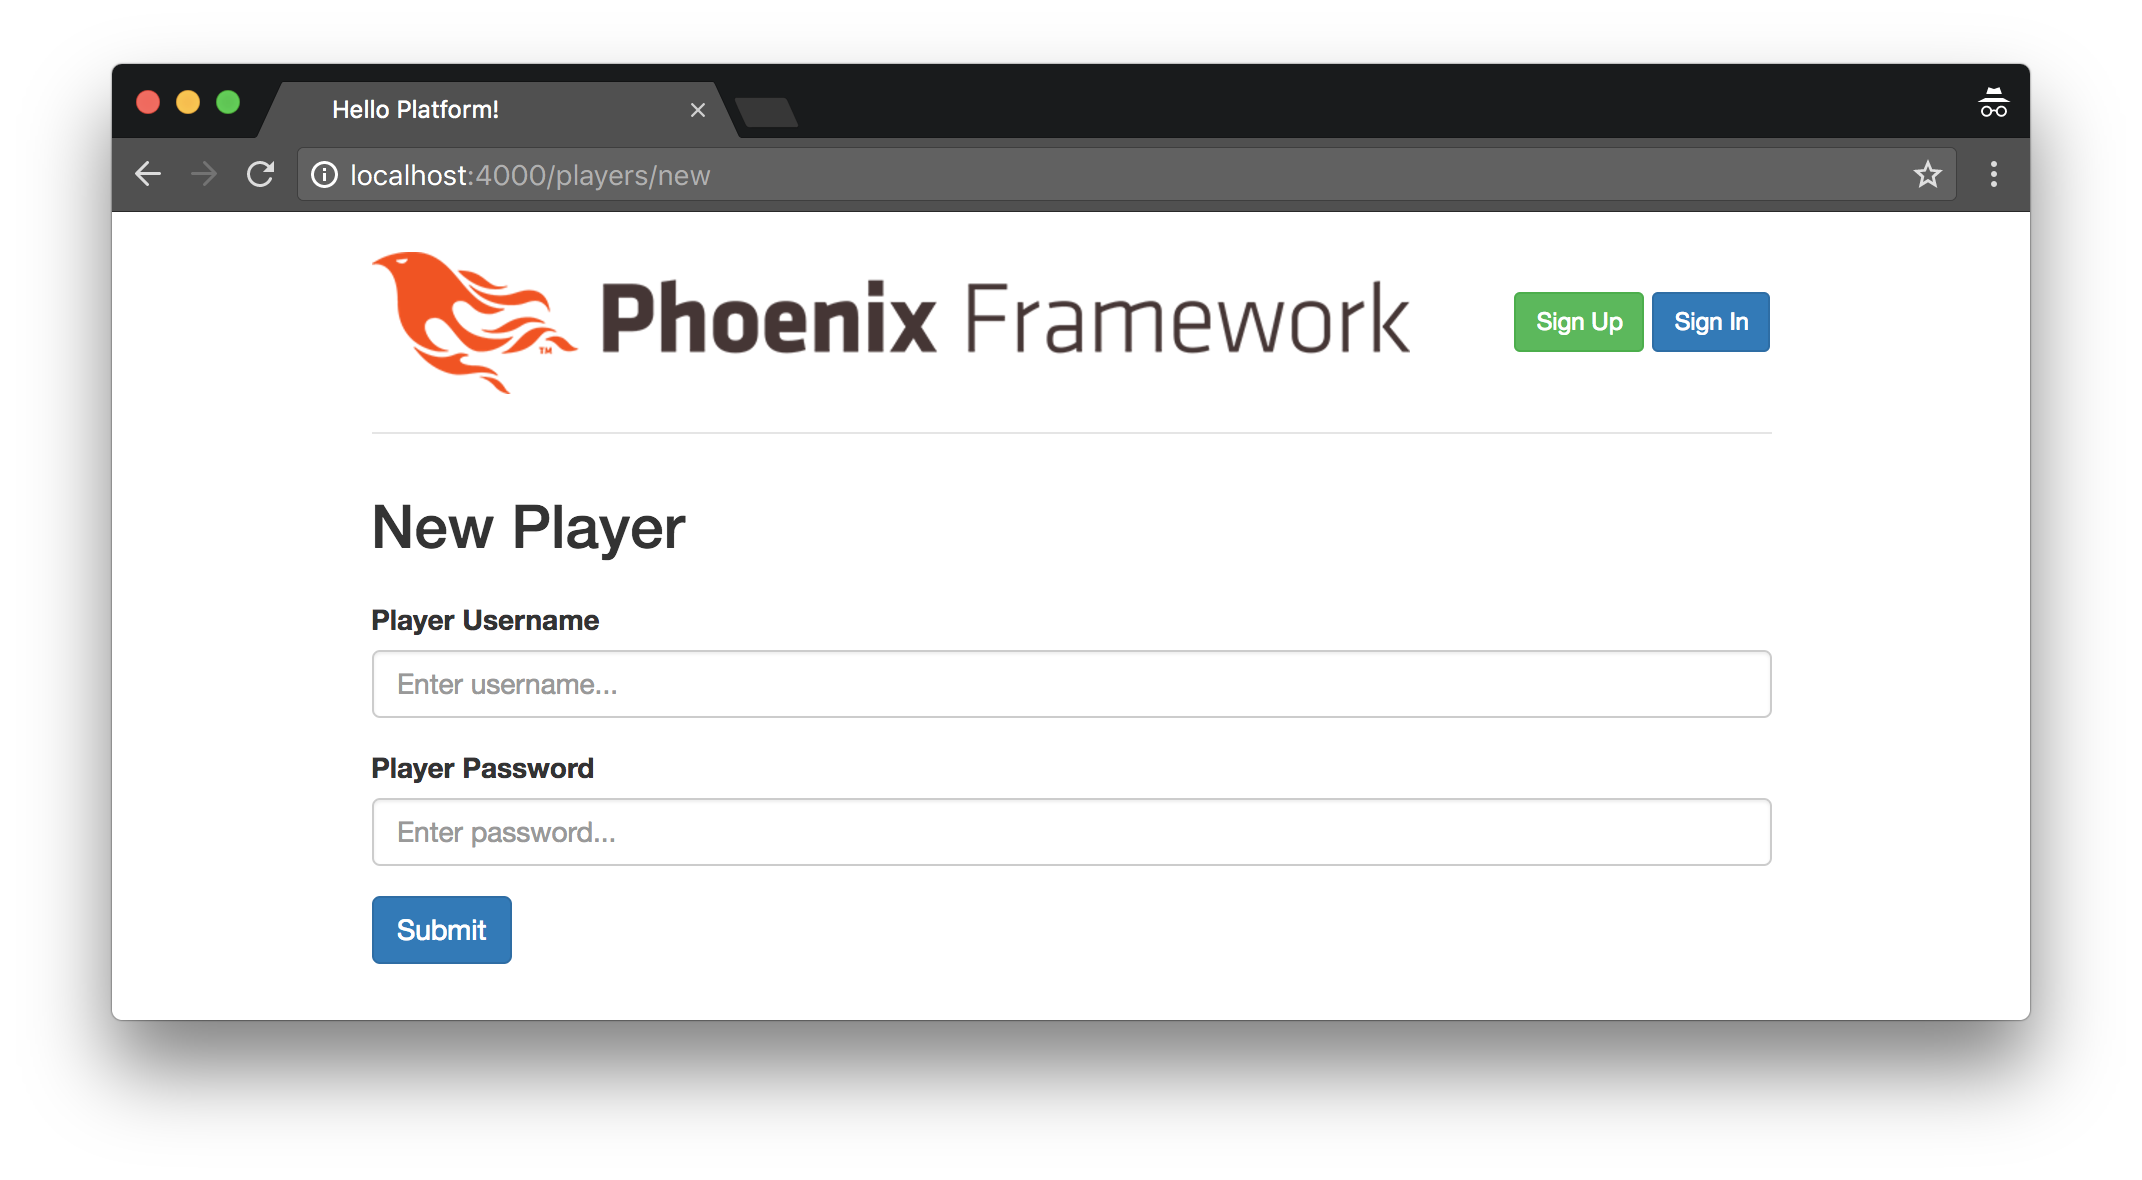
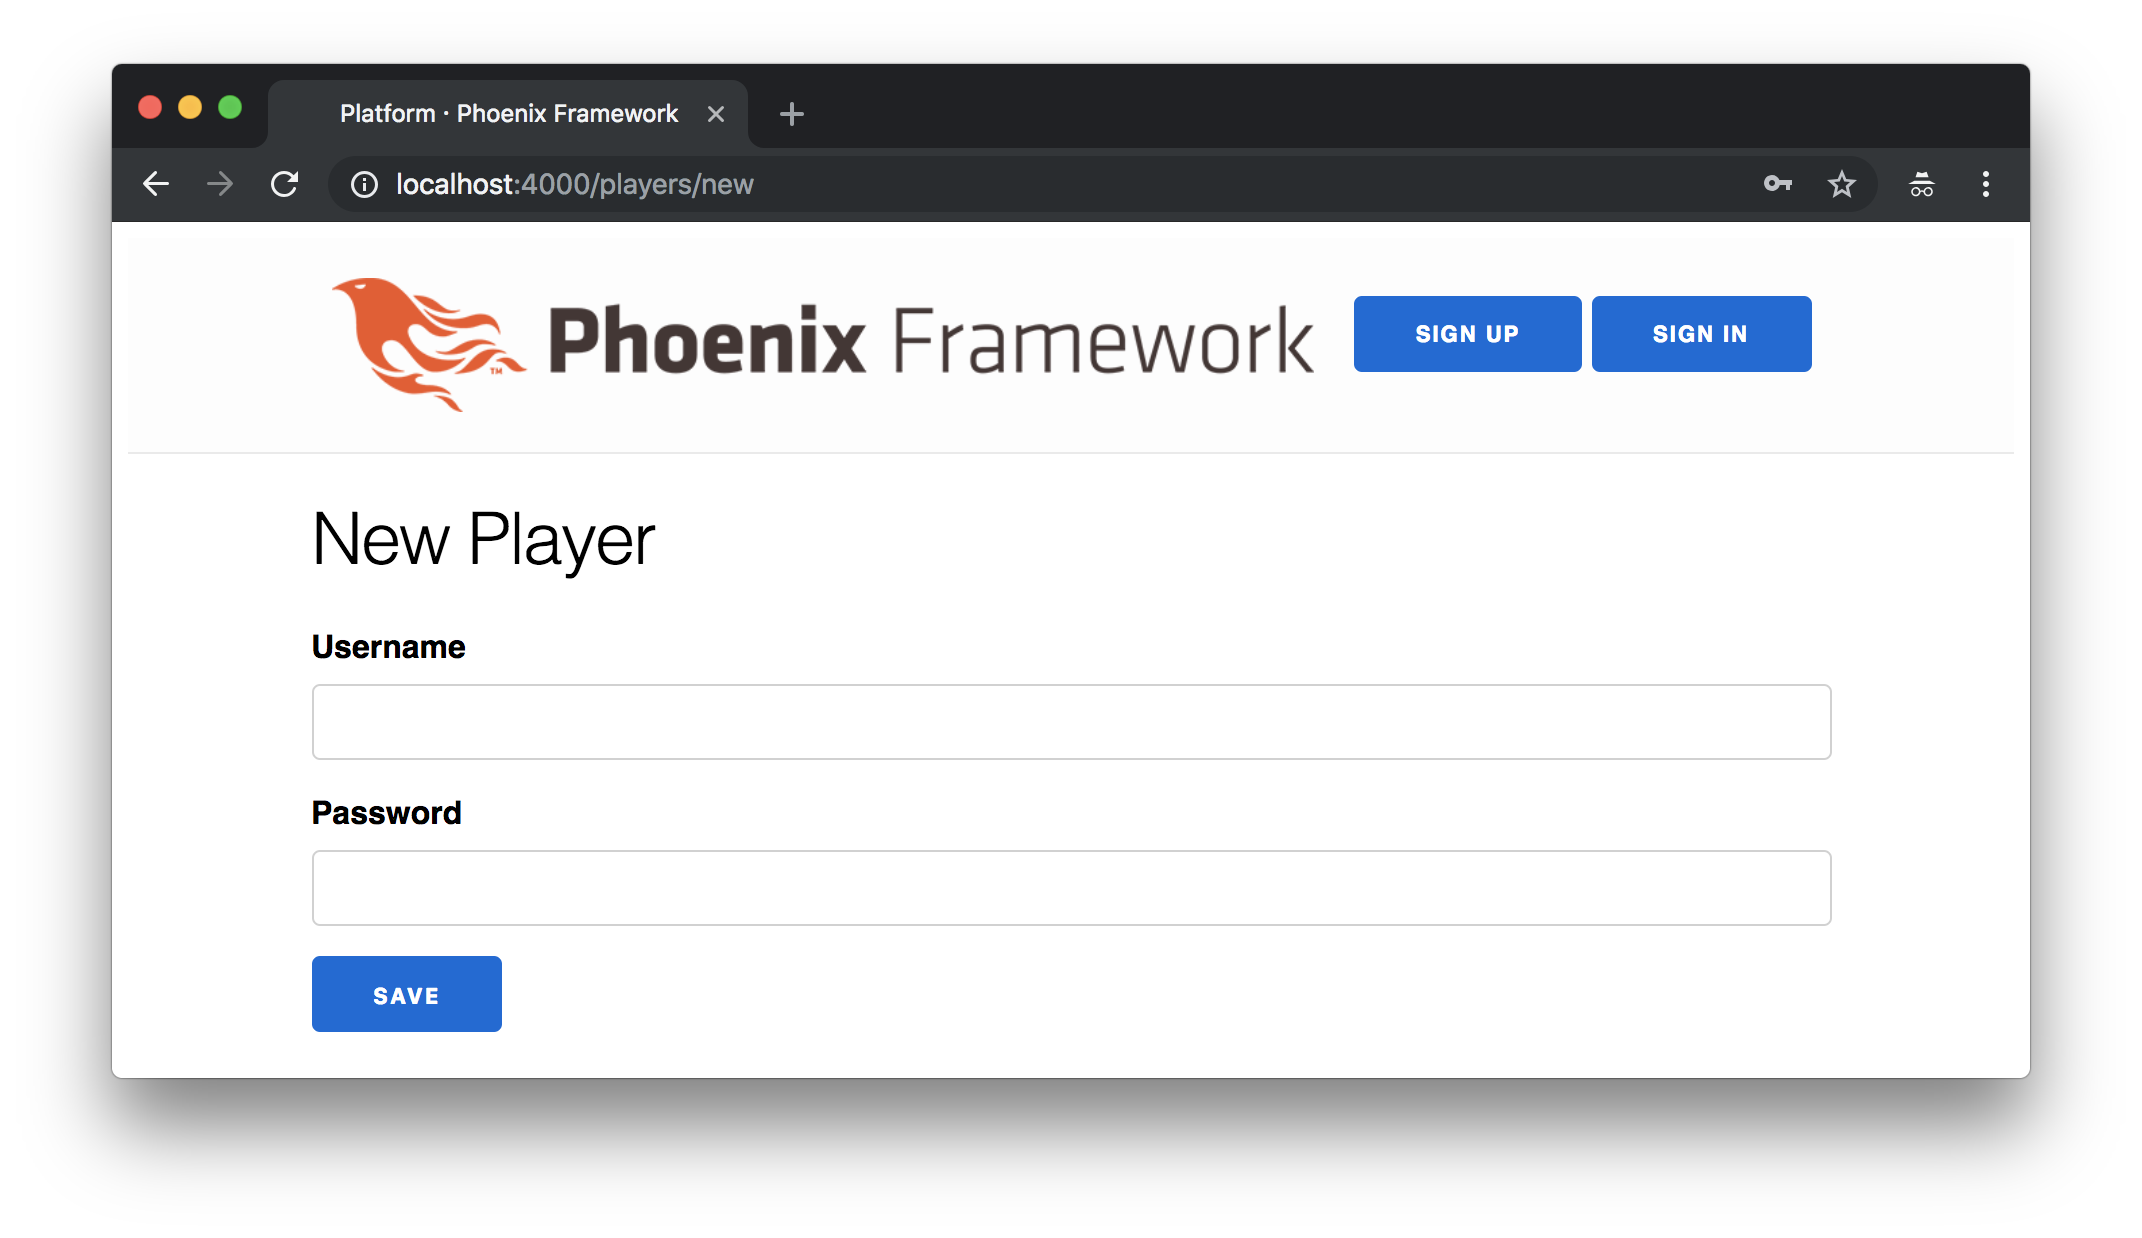
Finish big updates to session section

diff --git a/manuscript/phoenix_authentication.md b/manuscript/phoenix_authentication.md
@@ -747,7 +747,7 @@ sessions to sign in and out of the platform.
 
 Lastly, we'll create the functions in our `PlayerAuthController` that tie
 everything together. Add the `sign_in_with_username_and_password/4` function and
-the `sign_out/1` functions below the `sign_in/2` function at the bottom of the
+the `sign_out/1` function below the `sign_in/2` function at the bottom of the
 `lib/platform_web/controllers/player_auth_controller.ex` file.
 
 ```elixir
@@ -787,8 +787,8 @@ you're using Google Chrome on macOS, you can create a new incognito window with
 `Command + Shift + N`. It's also a good idea to restart your Phoenix server
 with `mix phx.server` at this point to get things up and running.
 
-We can test out the sign in process with the same account that we created in
-the previous sections. Go to the **Player Sign In** page at
+We can test out the sign in process with the same account we created in the
+previous sections. Go to the **Player Sign In** page at
 `http://localhost:4000/sessions/new` and try entering `chrismccord` for both the
 `username` and `password` fields.
 
@@ -812,14 +812,18 @@ remove the default Phoenix header.
 Update the contents of the `<header>` tag with the following:
 
 ```embedded_elixir
-<header class="header">
-  <nav role="navigation">
-    <ul class="nav nav-pills pull-right">
-      <%= link "Sign Up", to: player_path(@conn, :new), class: "btn btn-sm btn-success" %>
-      <%= link "Sign In", to: player_session_path(@conn, :new), class: "btn btn-sm btn-primary" %>
-    </ul>
-  </nav>
-  <span class="logo"></span>
+<header>
+  <section class="container">
+    <nav role="navigation">
+      <ul>
+        <%= link "Sign Up", to: Routes.player_path(@conn, :new), class: "button" %>
+        <%= link "Sign In", to: Routes.player_session_path(@conn, :new), class: "button" %>
+      </ul>
+    </nav>
+    <a href="http://phoenixframework.org/" class="phx-logo">
+      <img src="<%= Routes.static_path(@conn, "/images/phoenix.png") %>" alt="Phoenix Framework Logo"/>
+    </a>
+  </section>
 </header>
 ```
 
@@ -835,19 +839,23 @@ want to show them their `username` in the header along with a sign out button.
 Let's update our `<header>` tag again with the following:
 
 ```embedded_elixir
-<header class="header">
-  <nav role="navigation">
-    <ul class="nav nav-pills pull-right">
-      <%= if @current_user do %>
-        <p class="small">Signed in as <strong><%= @current_user.username %></strong></p>
-        <%= link "Sign Out", to: player_session_path(@conn, :delete, @current_user), method: "delete", class: "btn btn-sm btn-danger" %>
-      <% else %>
-        <%= link "Sign Up", to: player_path(@conn, :new), class: "btn btn-sm btn-success" %>
-        <%= link "Sign In", to: player_session_path(@conn, :new), class: "btn btn-sm btn-primary" %>
-      <% end %>
-    </ul>
-  </nav>
-  <span class="logo"></span>
+<header>
+  <section class="container">
+    <nav role="navigation">
+      <ul>
+        <%= if @current_user do %>
+          <p>Signed in as <strong><%= @current_user.username %></strong></p>
+          <%= link "Sign Out", to: Routes.player_session_path(@conn, :delete, @current_user), method: "delete", class: "button" %>
+        <% else %>
+          <%= link "Sign Up", to: Routes.player_path(@conn, :new), class: "button" %>
+          <%= link "Sign In", to: Routes.player_session_path(@conn, :new), class: "button" %>
+        <% end %>
+      </ul>
+    </nav>
+    <a href="http://phoenixframework.org/" class="phx-logo">
+      <img src="<%= Routes.static_path(@conn, "/images/phoenix.png") %>" alt="Phoenix Framework Logo"/>
+    </a>
+  </section>
 </header>
 ```
 
